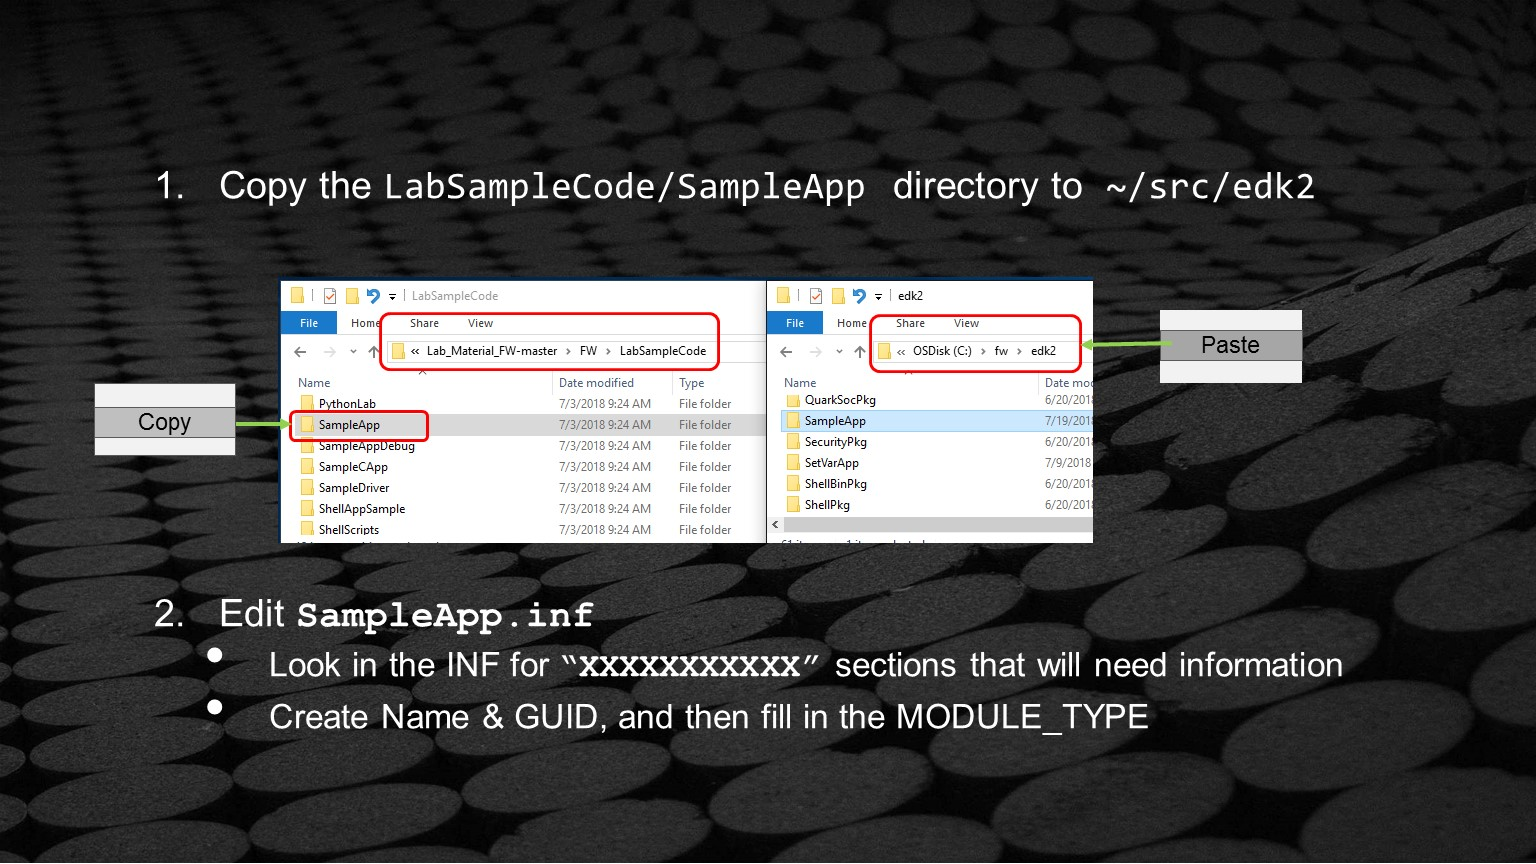
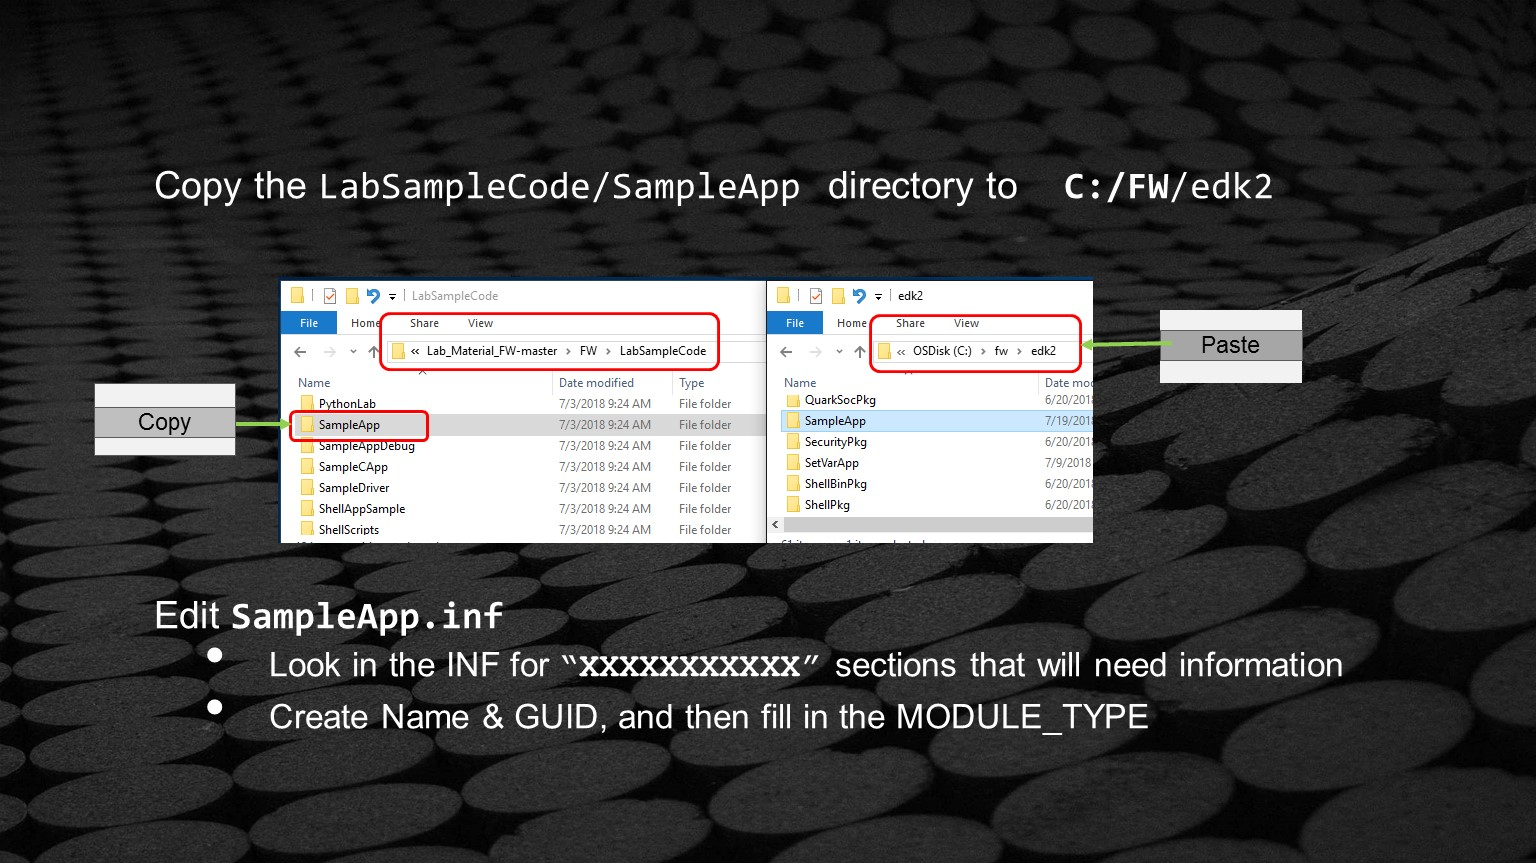
Signed-off-by: Laurie0131 <laurie.jarlstrom@intel.com>

Changed region(s): [[0.0938, 0.1875, 0.8438, 0.25], [0.0938, 0.6875, 0.4062, 0.75]]

diff --git a/PITCHME.md b/PITCHME.md
@@ -161,11 +161,12 @@ Note:
 @title[EDK II HelloWorld  App  Lab ]
 <p align="right"><span class="gold" ><b>EDK II HelloWorld  App  Lab  </b></span></p>
 <span style="font-size:0.8em" >First Setup for Building EDK II for Nt32, See <a href="https://gitpitch.com/Laurie0131/Platform_Build_WIN_LAB/master#/2">Lab Setup for NT32 </a></span>
-<br>
-<div class="left1">
 <p style="line-height:60%"><span style="font-size:0.8em" >Locate and Open </span><span style="font-size:0.5em" ><br>
 `MdeModulePkg/Application/HelloWorld/HelloWorld.c`</span></p>
-<span style="font-size:0.8em" >Notice the PCD values</span>
+<div class="left1">
+<span style="font-size:0.8em" >Notice the PCD values</span><br><br>
+<span style="font-size:0.8em" >Build Nt32 Emulation <br>
+<span style="font-size:0.8em" >Then Run HelloWorld</span><br>
 </div>
 <div class="right1">
 <span style="font-size:0.8em" >&nbsp;  </span>
@@ -804,28 +805,37 @@ Note:
  
  - c code and inf file
 
-
----
+---?image=/assets/images/slides/Slide37.JPG
 @title[Build and Test SampleApp]
 <p align="right"><span class="gold" ><b>Lab 3 : Build and Test SampleApp</b></span></p>
 <span style="font-size:0.8em" >At the VS Command Prompt </span>
-```shell
+<div class="left1">
+<pre>
+```
   C:/FW/edk2> Build
   C:/FW/edk2> Build Run
 ```
+</pre>
 <span style="font-size:0.8em" >Run the application from the shell</span>
-```shell
+<pre>
+```
  Shell> SampleApp
  System Table: 0x07E34018
  Shell> 
 ```
-<span style="font-size:0.8em" >Verify by using the “`mem`” command </span><br>
-
+</pre>
+<p style="line-height:70%"><span style="font-size:0.8em" >Verify by using the Shell “`mem`” command </span></p>
+<br>
 <span style="font-size:0.8em" >Exit</span>
-```shell
+<pre>
+```
  Shell> Reset
 ```
-
+</pre>
+</div>
+<div class="right1">
+<span style="font-size:0.8em" >&nbsp;  </span>
+</div>
 
 Note:
 
